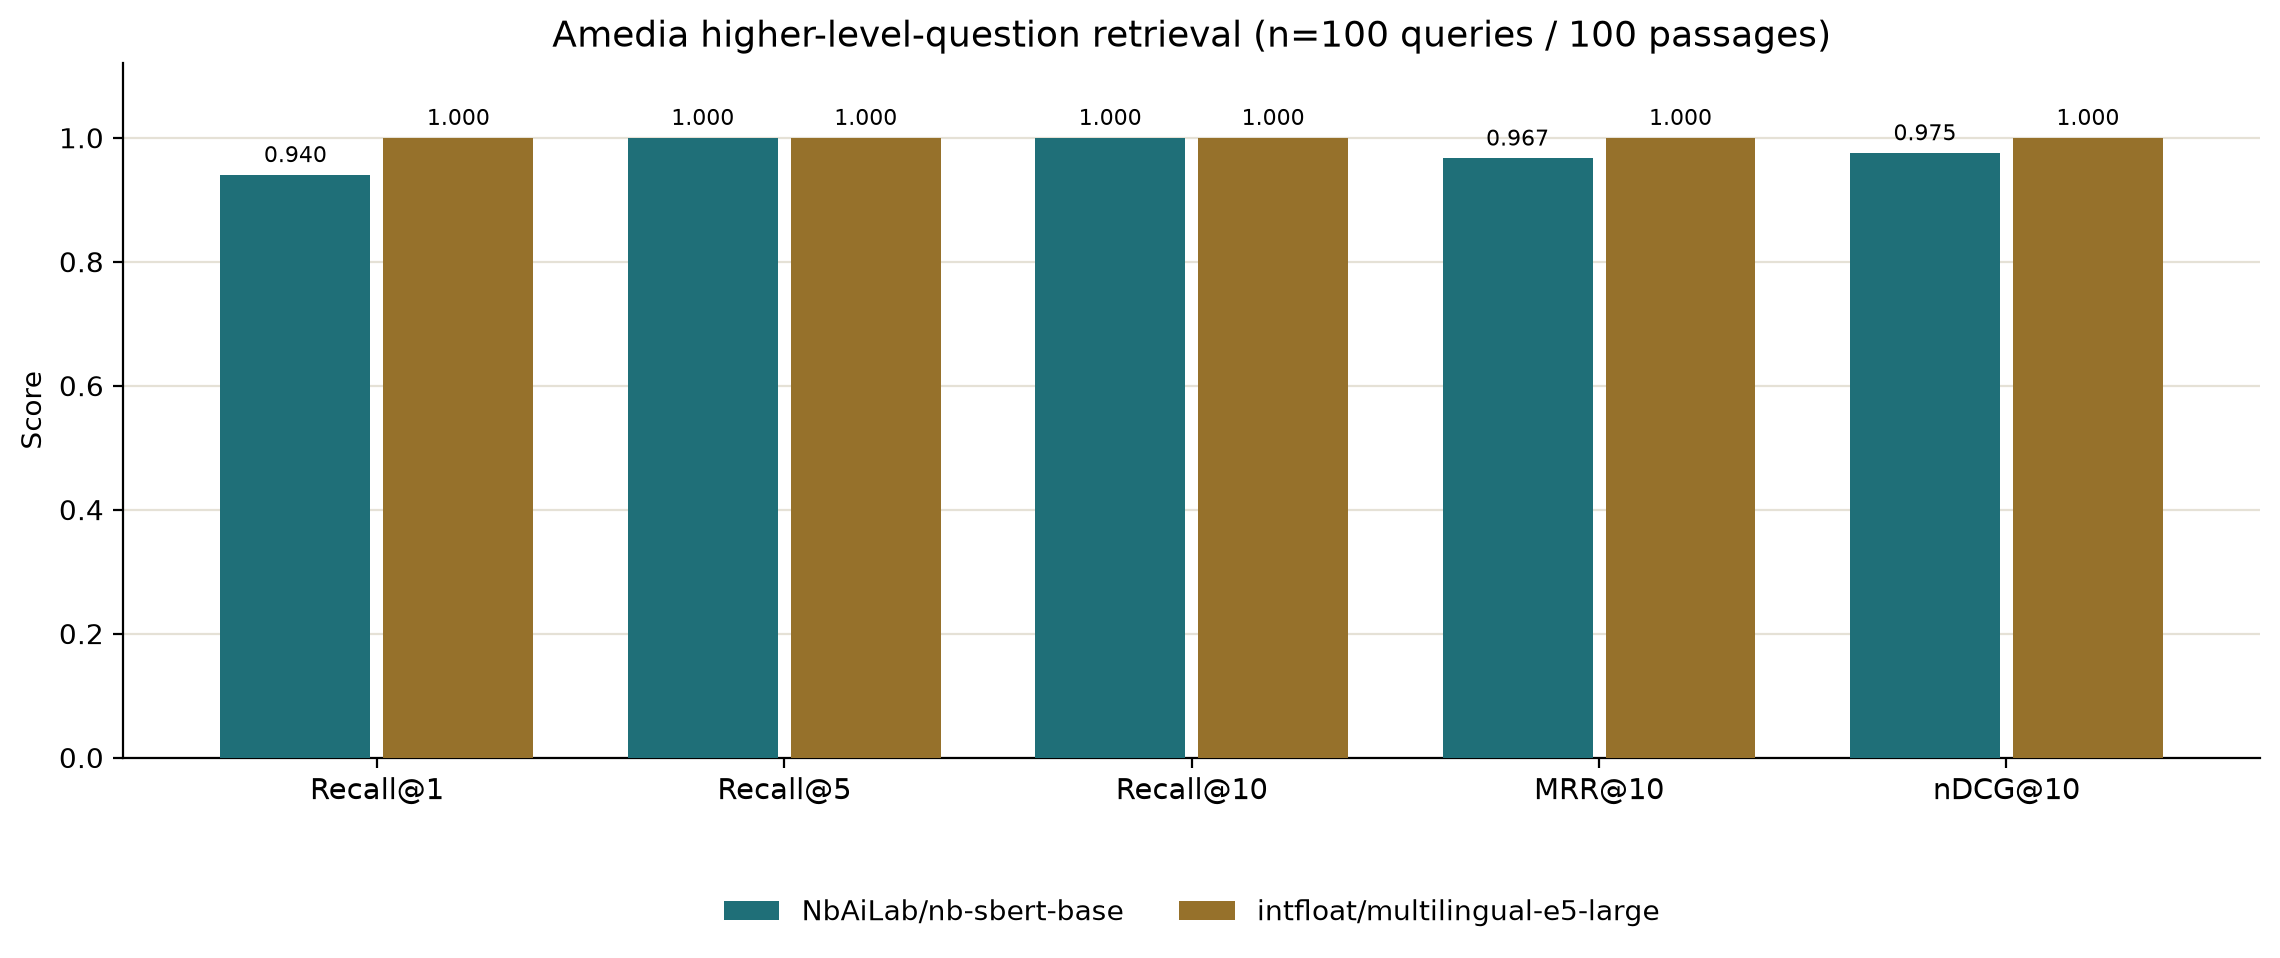
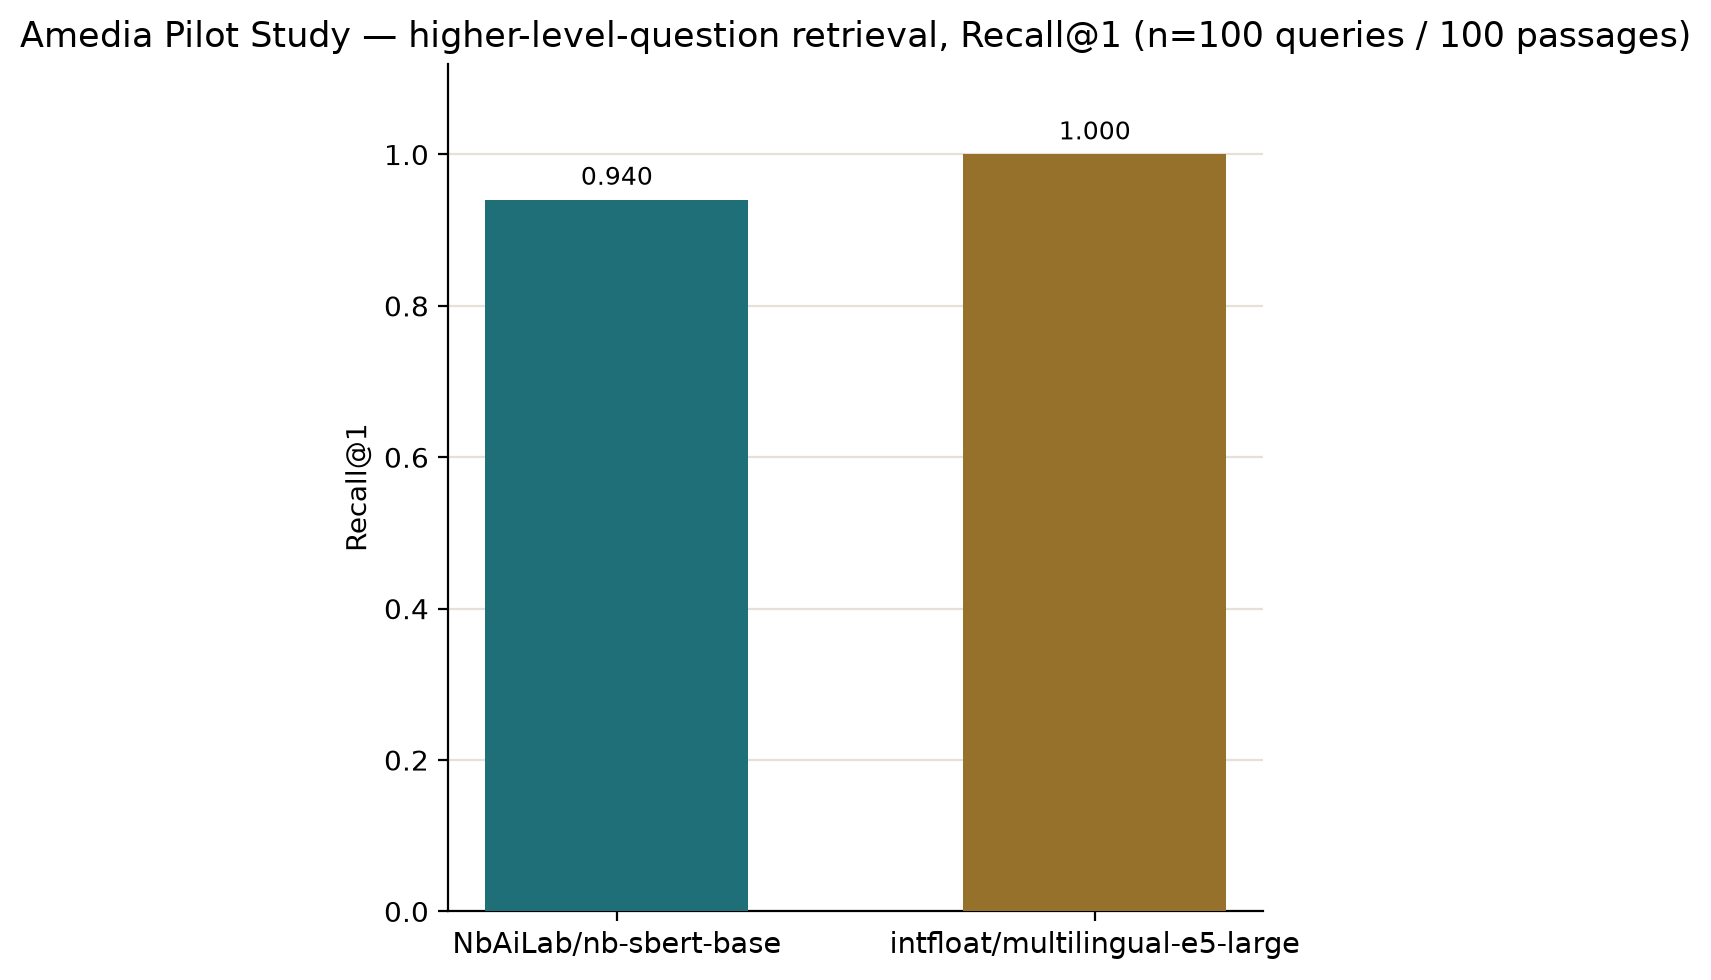
Simplify Amedia retrieval plot to Recall@1 only, title it Pilot Study
Drop the other four metrics — both models are already at 1.0 by rank
5, so Recall@1 is the only one where they actually diverge. Retitle
as "Amedia Pilot Study" to reflect the small (100-question, 1-to-1
corpus) scale of this benchmark.

diff --git a/benchmarks/scripts/plot_amedia_retrieval_results.py b/benchmarks/scripts/plot_amedia_retrieval_results.py
@@ -2,9 +2,9 @@
 multilingual-e5-large on the 100-question Amedia higher-level-question
 retrieval benchmark (see AMEDIA_RETRIEVAL.md).
 
-Single-axes grouped bar chart: one group per metric (Recall@1/5/10, MRR@10,
-nDCG@10), one bar per model within each group, so all five metrics are
-directly comparable on one shared 0-1 scale.
+Single-axes bar chart: one bar per model, Recall@1 only — the one metric
+where the two models actually diverge (both are already 1.0 by rank 5, see
+AMEDIA_RETRIEVAL.md).
 
 Usage:
     python3 plot_amedia_retrieval_results.py
@@ -23,10 +23,8 @@ IN_PATH = RESULTS_DIR / "amedia_retrieval_results.csv"
 PLOT_PATH = RESULTS_DIR / "amedia_retrieval_results.png"
 
 PALETTE = ["#1F6F78", "#96712B", "#6E4C9E", "#3E7A3E", "#B0473E"]
-METRIC_LABELS = {
-    "recall@1": "Recall@1", "recall@5": "Recall@5", "recall@10": "Recall@10",
-    "mrr@10": "MRR@10", "ndcg@10": "nDCG@10",
-}
+METRIC = "recall@1"
+METRIC_LABEL = "Recall@1"
 
 
 def main():
@@ -34,41 +32,32 @@ def main():
         print(f"{IN_PATH} does not exist — run amedia_retrieval_benchmark.py first.")
         sys.exit(1)
     df = pd.read_csv(IN_PATH).set_index("model")
-    metric_cols = [c for c in METRIC_LABELS if c in df.columns]
     models = list(df.index)
     print("=== Amedia retrieval results (100 queries / 100 passages) ===")
-    print(df[metric_cols].round(4).to_string())
+    print(df[[METRIC]].round(4).to_string())
 
-    color_map = {m: PALETTE[i % len(PALETTE)] for i, m in enumerate(models)}
+    vals = df[METRIC].values.astype(float)
+    colors = [PALETTE[i % len(PALETTE)] for i in range(len(models))]
 
-    n_metrics = len(metric_cols)
-    n_models = len(models)
-    x = np.arange(n_metrics)
-    width = 0.8 / n_models
-
-    fig, ax = plt.subplots(figsize=(2.0 * n_metrics + 1.5, 5.0), dpi=200)
-    for i, m in enumerate(models):
-        vals = df.loc[m, metric_cols].values.astype(float)
-        offset = (i - (n_models - 1) / 2) * width
-        bars = ax.bar(x + offset, vals, width=width * 0.92, color=color_map[m],
-                       label=m, zorder=3)
-        for b, v in zip(bars, vals):
-            ax.text(b.get_x() + b.get_width() / 2, v + 0.012, f"{v:.3f}",
-                    ha="center", va="bottom", fontsize=8)
+    fig, ax = plt.subplots(figsize=(1.8 * len(models) + 1.5, 5.0), dpi=200)
+    x = np.arange(len(models))
+    bars = ax.bar(x, vals, width=0.55, color=colors, zorder=3)
+    for b, v in zip(bars, vals):
+        ax.text(b.get_x() + b.get_width() / 2, v + 0.012, f"{v:.3f}",
+                ha="center", va="bottom", fontsize=9)
 
     ax.set_xticks(x)
-    ax.set_xticklabels([METRIC_LABELS[c] for c in metric_cols], fontsize=10.5)
+    ax.set_xticklabels(models, fontsize=10.5)
     ax.set_ylim(0, 1.12)
-    ax.set_ylabel("Score")
+    ax.set_ylabel(METRIC_LABEL)
     ax.spines["top"].set_visible(False)
     ax.spines["right"].set_visible(False)
     ax.yaxis.grid(True, color="#E5E1D6", zorder=0)
     ax.set_axisbelow(True)
-    ax.legend(loc="lower center", bbox_to_anchor=(0.5, -0.28), ncol=n_models, frameon=False)
 
     n_q = int(df["n_queries"].iloc[0]) if "n_queries" in df.columns else 100
-    ax.set_title(f"Amedia higher-level-question retrieval (n={n_q} queries / {n_q} passages)",
-                 fontsize=13)
+    ax.set_title(f"Amedia Pilot Study — higher-level-question retrieval, {METRIC_LABEL} "
+                 f"(n={n_q} queries / {n_q} passages)", fontsize=12.5)
     fig.tight_layout()
     fig.savefig(PLOT_PATH, bbox_inches="tight")
     print(f"\nSaved plot -> {PLOT_PATH}")
